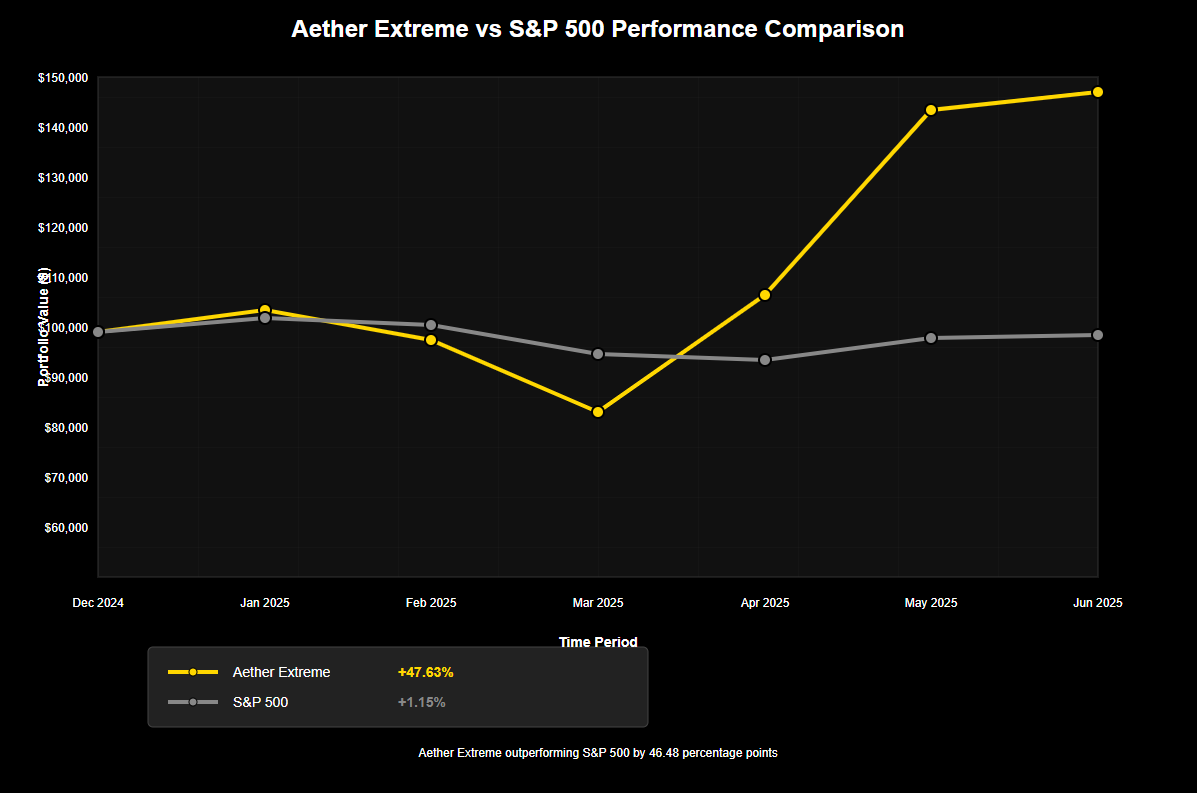
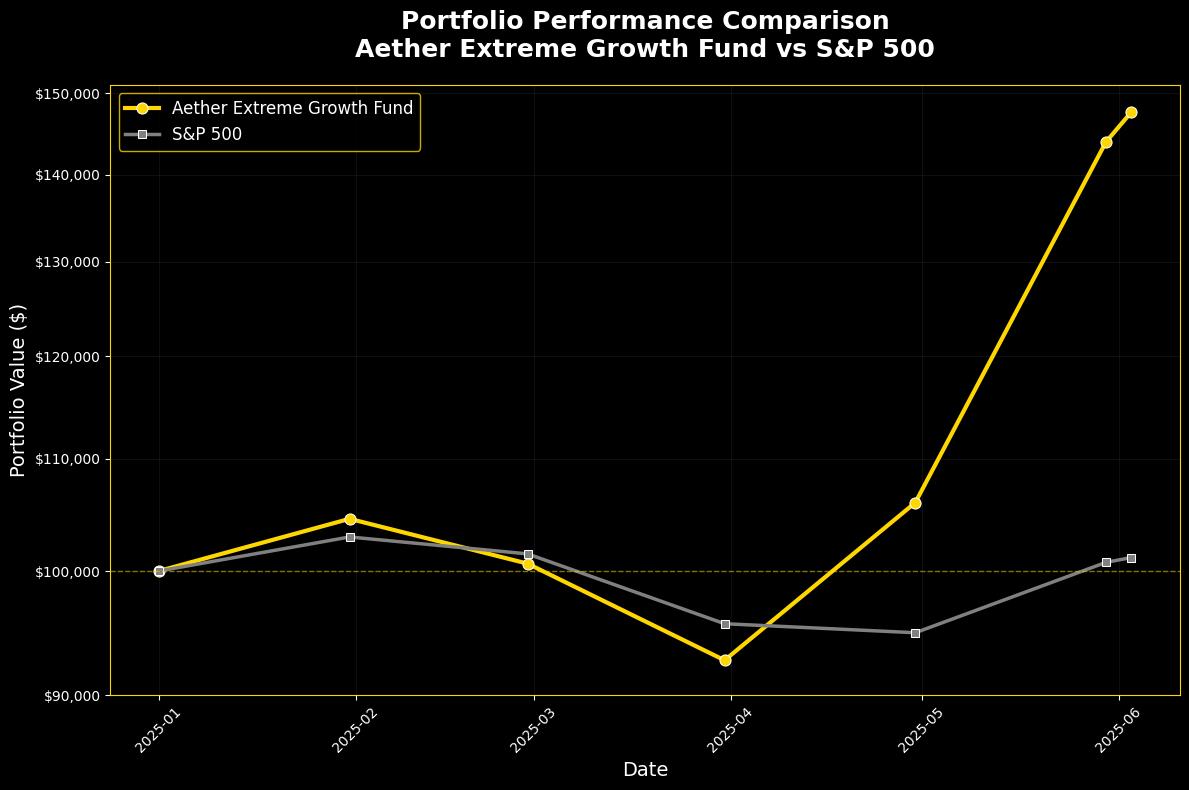
Add files via upload

diff --git a/style.css b/style.css
@@ -7,9 +7,13 @@ body {
   display: flex;
   justify-content: center;
   align-items: center;
-  height: 100vh;
+  min-height: 100vh;
   text-align: center;
+  flex-direction: column;
+  padding: 2rem 1rem;
+  box-sizing: border-box;
 }
+
 
 .container {
   max-width: 800px;
@@ -40,4 +44,13 @@ footer {
   margin-top: 2rem;
   font-size: 0.9rem;
   color: #888;
+}
+.top-image {
+  width: 100%;
+  max-width: 300px;
+  height: auto;
+  margin: 1rem auto;
+  border: 2px solid #ffd700;
+  border-radius: 8px;
+  display: block;
 }

diff --git a/index.html b/index.html
@@ -10,7 +10,8 @@
 <body>
   <div class="container">
     <h1>MorosAetherean</h1>
-    <p class="tagline">Navigating Eternity and Fate</p>
+    <img src="MoroSymbol.png" alt="MorosAetherean Symbol" class="top-image" />
+    <p class="tagline">Aether Extreme Growth Fund</p>
     <img src="chart.png" alt="Aether Extreme vs S&P 500" class="chart" />
     <footer>
       <p>&copy; 2025 MorosAetherean. All rights reserved.</p>
